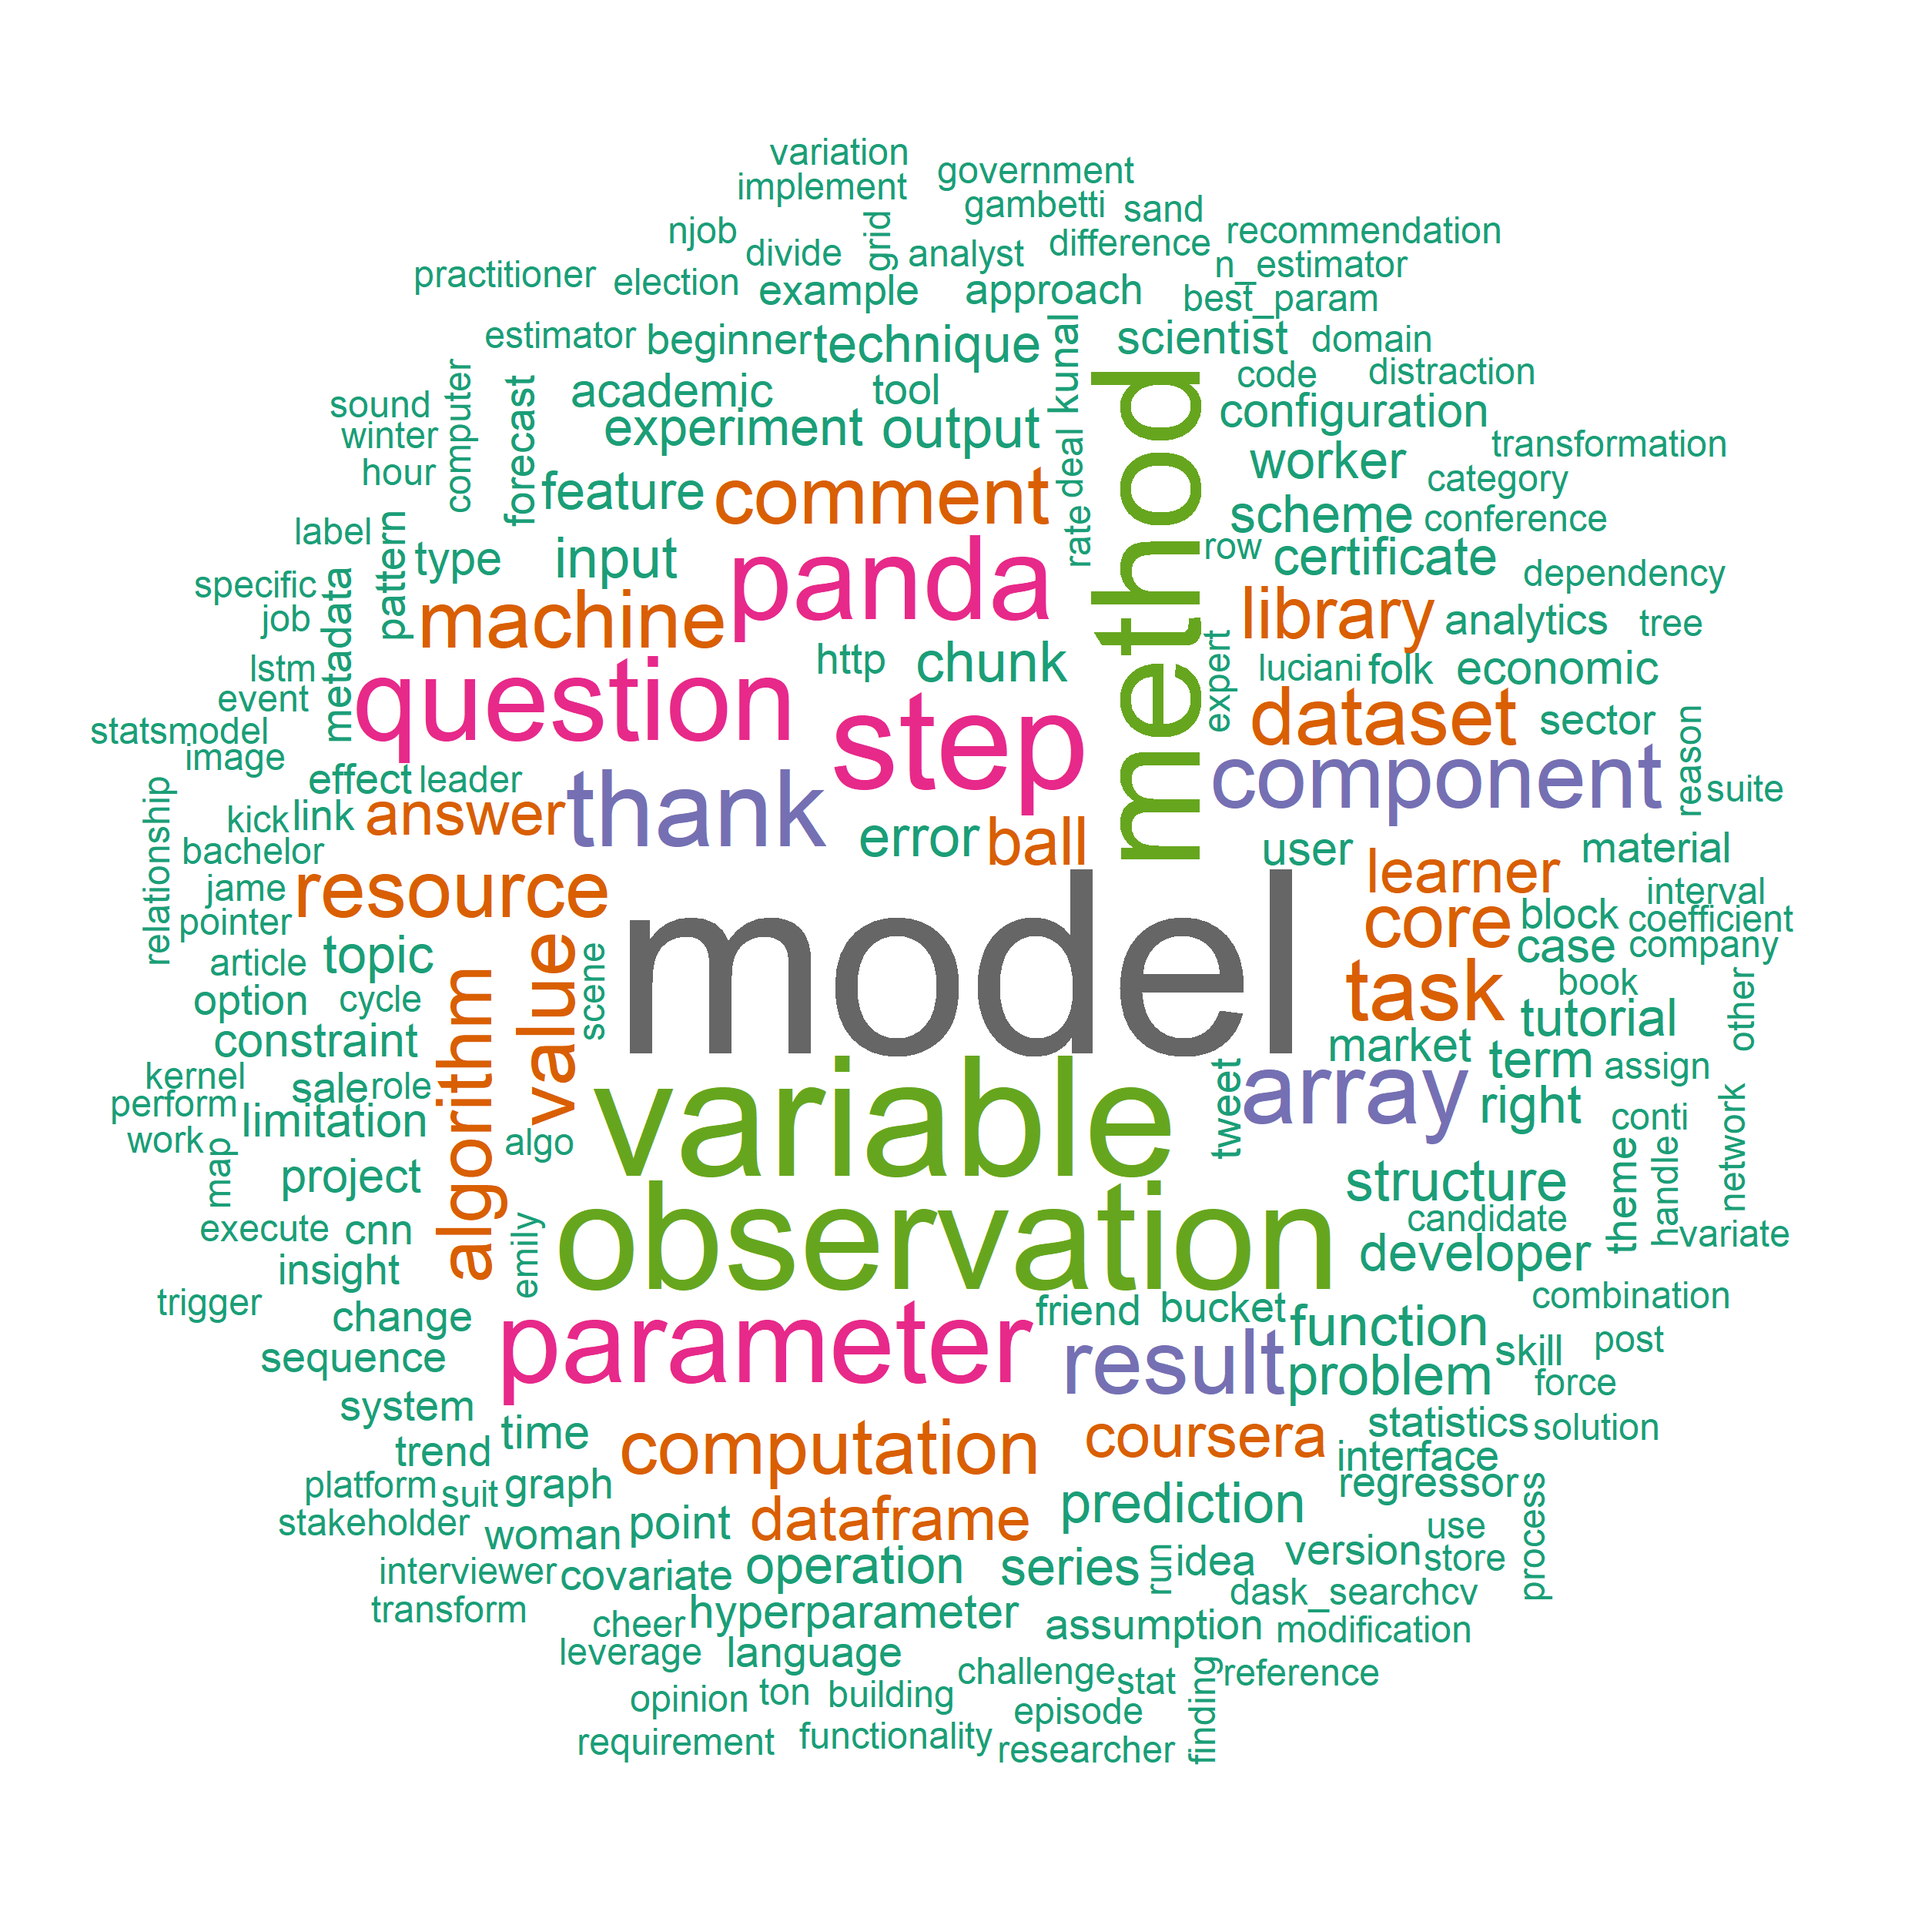
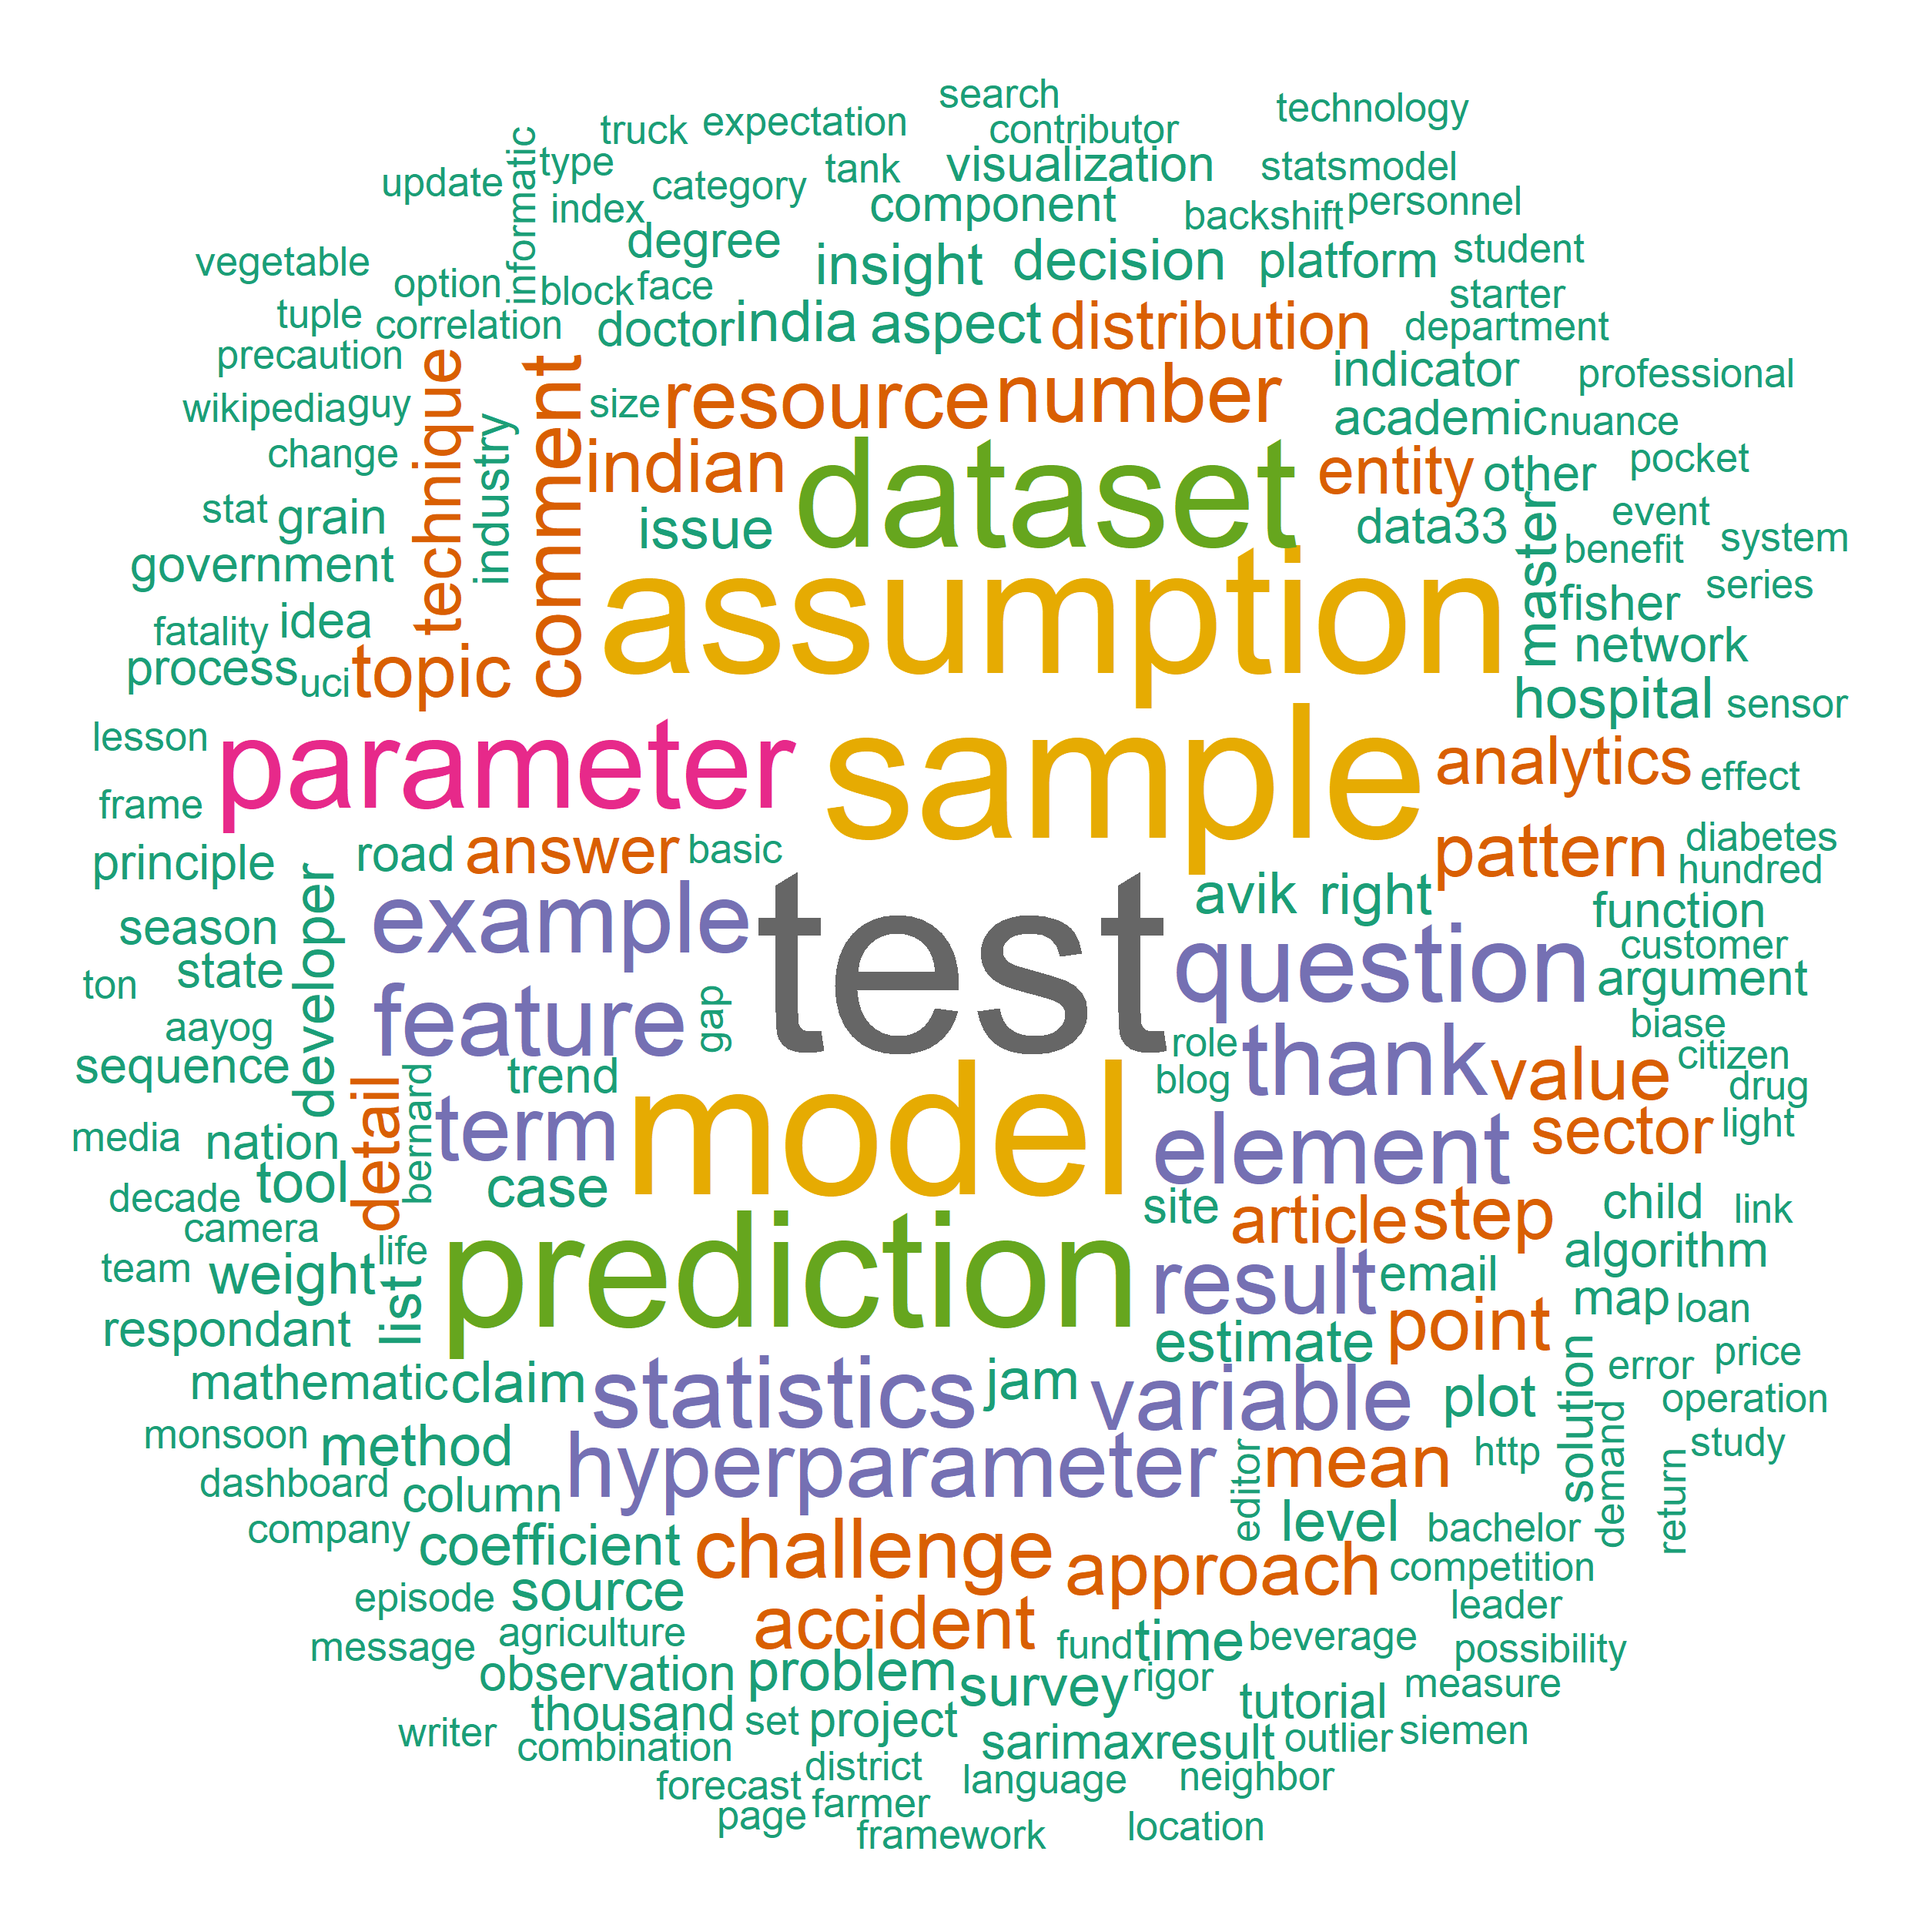
Hyunseo

Changed region(s): [[0.0312, 0.0312, 0.9672, 0.9672]]

diff --git a/data/newsletter/input/html/mastery_out.html b/data/newsletter/input/html/mastery_out.html
@@ -1,3 +1,3 @@
-<ul><li><a href="https://machinelearningmastery.com/how-to-develop-a-skilful-time-series-forecasting-model/">How to Develop a Skillful Machine Learning Time Series Forecasting Model</a></li></ul><p style = "margin-left: 0 px">Keyword(freq): model(9), result(8), method(7), question(4), resource(4), scheme(4), configuration(3), experiment(3), answer(2), approach(2)</p>
-<ul><li><a href="https://machinelearningmastery.com/taxonomy-of-time-series-forecasting-problems/">Taxonomy of Time Series Forecasting Problems</a></li></ul><p style = "margin-left: 0 px">Keyword(freq): variable(17), observation(13), question(9), input(5), output(5), answer(4), problem(4), step(3), comment(2), constraint(2)</p>
-<ul><li><a href="https://machinelearningmastery.com/time-series-forecasting-methods-in-python-cheat-sheet/">11 Classical Time Series Forecasting Methods in Python (Cheat Sheet)</a></li></ul><p style = "margin-left: 0 px">Keyword(freq): model(27), method(15), component(11), observation(11), step(10), variable(10), thank(8), parameter(7), comment(5), error(5)</p>
+<ul><li><a href="https://machinelearningmastery.com/sarima-for-time-series-forecasting-in-python/">A Gentle Introduction to SARIMA for Time Series Forecasting in Python</a></li></ul><p style = "margin-left: 0 px">Keyword(freq): element(8), hyperparameter(5), parameter(5), step(4), term(4), plot(3), variable(3), argument(2), model(2), question(2)</p>
+<ul><li><a href="https://machinelearningmastery.com/statistical-hypothesis-tests-in-python-cheat-sheet/">15 Statistical Hypothesis Tests in Python (Cheat Sheet)</a></li></ul><p style = "margin-left: 0 px">Keyword(freq): test(26), assumption(17), sample(15), distribution(4), mean(4), question(4), answer(3), list(3), result(3), thank(3)</p>
+<ul><li><a href="https://machinelearningmastery.com/how-to-reduce-model-variance/">How to Reduce Variance in a Final Machine Learning Model</a></li></ul><p style = "margin-left: 0 px">Keyword(freq): model(15), prediction(15), parameter(6), approach(4), decision(3), estimate(3), example(3), sample(3), source(3), term(3)</p>

diff --git a/data/newsletter/input/html/kaggle_out.html b/data/newsletter/input/html/kaggle_out.html
@@ -1,1 +1,1 @@
-<ul><li><a href="http://blog.kaggle.com/2018/08/09/data-notes-from-hate-speech-to-russian-troll-tweets/">Data Notes: From Hate Speech to Russian Troll Tweets</a></li></ul><p style = "margin-left: 0 px">Keyword(freq): tweet(2), building(1), dataset(1), election(1), image(1), kernel(1), right(1), statistics(1), trend(1), NA(NA)</p>
+<li>no new article</li>

diff --git a/_posts/2018/2018-08-18-newsletter.md b/_posts/2018/2018-08-18-newsletter.md
@@ -1,0 +1,54 @@
+---
+layout: post
+title: 2018.08.18. 데이터 사이언스 뉴스레터
+category: weekly report
+tags: [Machine learning, Data Science article]
+no-post-nav: true
+---
+
+데이터 사이언스 뉴스레터 ([wordcloud](https://raw.githubusercontent.com/2econsulting/2econsulting.github.io/master/data/newsletter/output/report/wordcloud_20180818.png))
+
+<br>
+
+#### Kaggle Blog NEWS TITLE
+
+* no new article
+
+
+
+<br>
+
+#### Data Camp NEWS TITLE
+
+* no new article
+
+
+
+<br>
+
+#### Analytics Vidhya NEWS TITLE
+
+* [Top 7 Sectors where Data Science can Transform India (with Free Datasets)](https://www.analyticsvidhya.com/blog/2018/08/top-7-sectors-where-data-science-can-transform-india-with-free-datasets/)
+<br>Keyword(freq): dataset(14), accident(5), hospital(3), indian(3), jam(3), level(3), pattern(3), point(3), resource(3), sector(3)
+
+* [DataHack Radio Episode #7: Tackling Data Science Challenges in India with NITI Aayog’s Dr. Avik Sarkar (Independence Day Special!)](https://www.analyticsvidhya.com/blog/2018/08/datahack-radio-episode-7-dr-avik-sarkar/)
+<br>Keyword(freq): challenge(5), article(3), avik(3), master(3), statistics(3), topic(3), analytics(2), india(2), indian(2), insight(2)
+
+* [Complete tutorial on Text Classification using Conditional Random Fields Model (in Python)](https://www.analyticsvidhya.com/blog/2018/08/nlp-guide-conditional-random-fields-text-classification/)
+<br>Keyword(freq): feature(6), entity(4), claim(3), analytics(2), email(2), example(2), pattern(2), problem(2), sequence(2), thank(2)
+
+<br>
+
+#### Machine Learning Mastery NEWS TITLE
+
+* [A Gentle Introduction to SARIMA for Time Series Forecasting in Python](https://machinelearningmastery.com/sarima-for-time-series-forecasting-in-python/)
+<br>Keyword(freq): element(8), hyperparameter(5), parameter(5), step(4), term(4), plot(3), variable(3), argument(2), model(2), question(2)
+
+* [15 Statistical Hypothesis Tests in Python (Cheat Sheet)](https://machinelearningmastery.com/statistical-hypothesis-tests-in-python-cheat-sheet/)
+<br>Keyword(freq): test(26), assumption(17), sample(15), distribution(4), mean(4), question(4), answer(3), list(3), result(3), thank(3)
+
+* [How to Reduce Variance in a Final Machine Learning Model](https://machinelearningmastery.com/how-to-reduce-model-variance/)
+<br>Keyword(freq): model(15), prediction(15), parameter(6), approach(4), decision(3), estimate(3), example(3), sample(3), source(3), term(3)
+
+<br>
+
